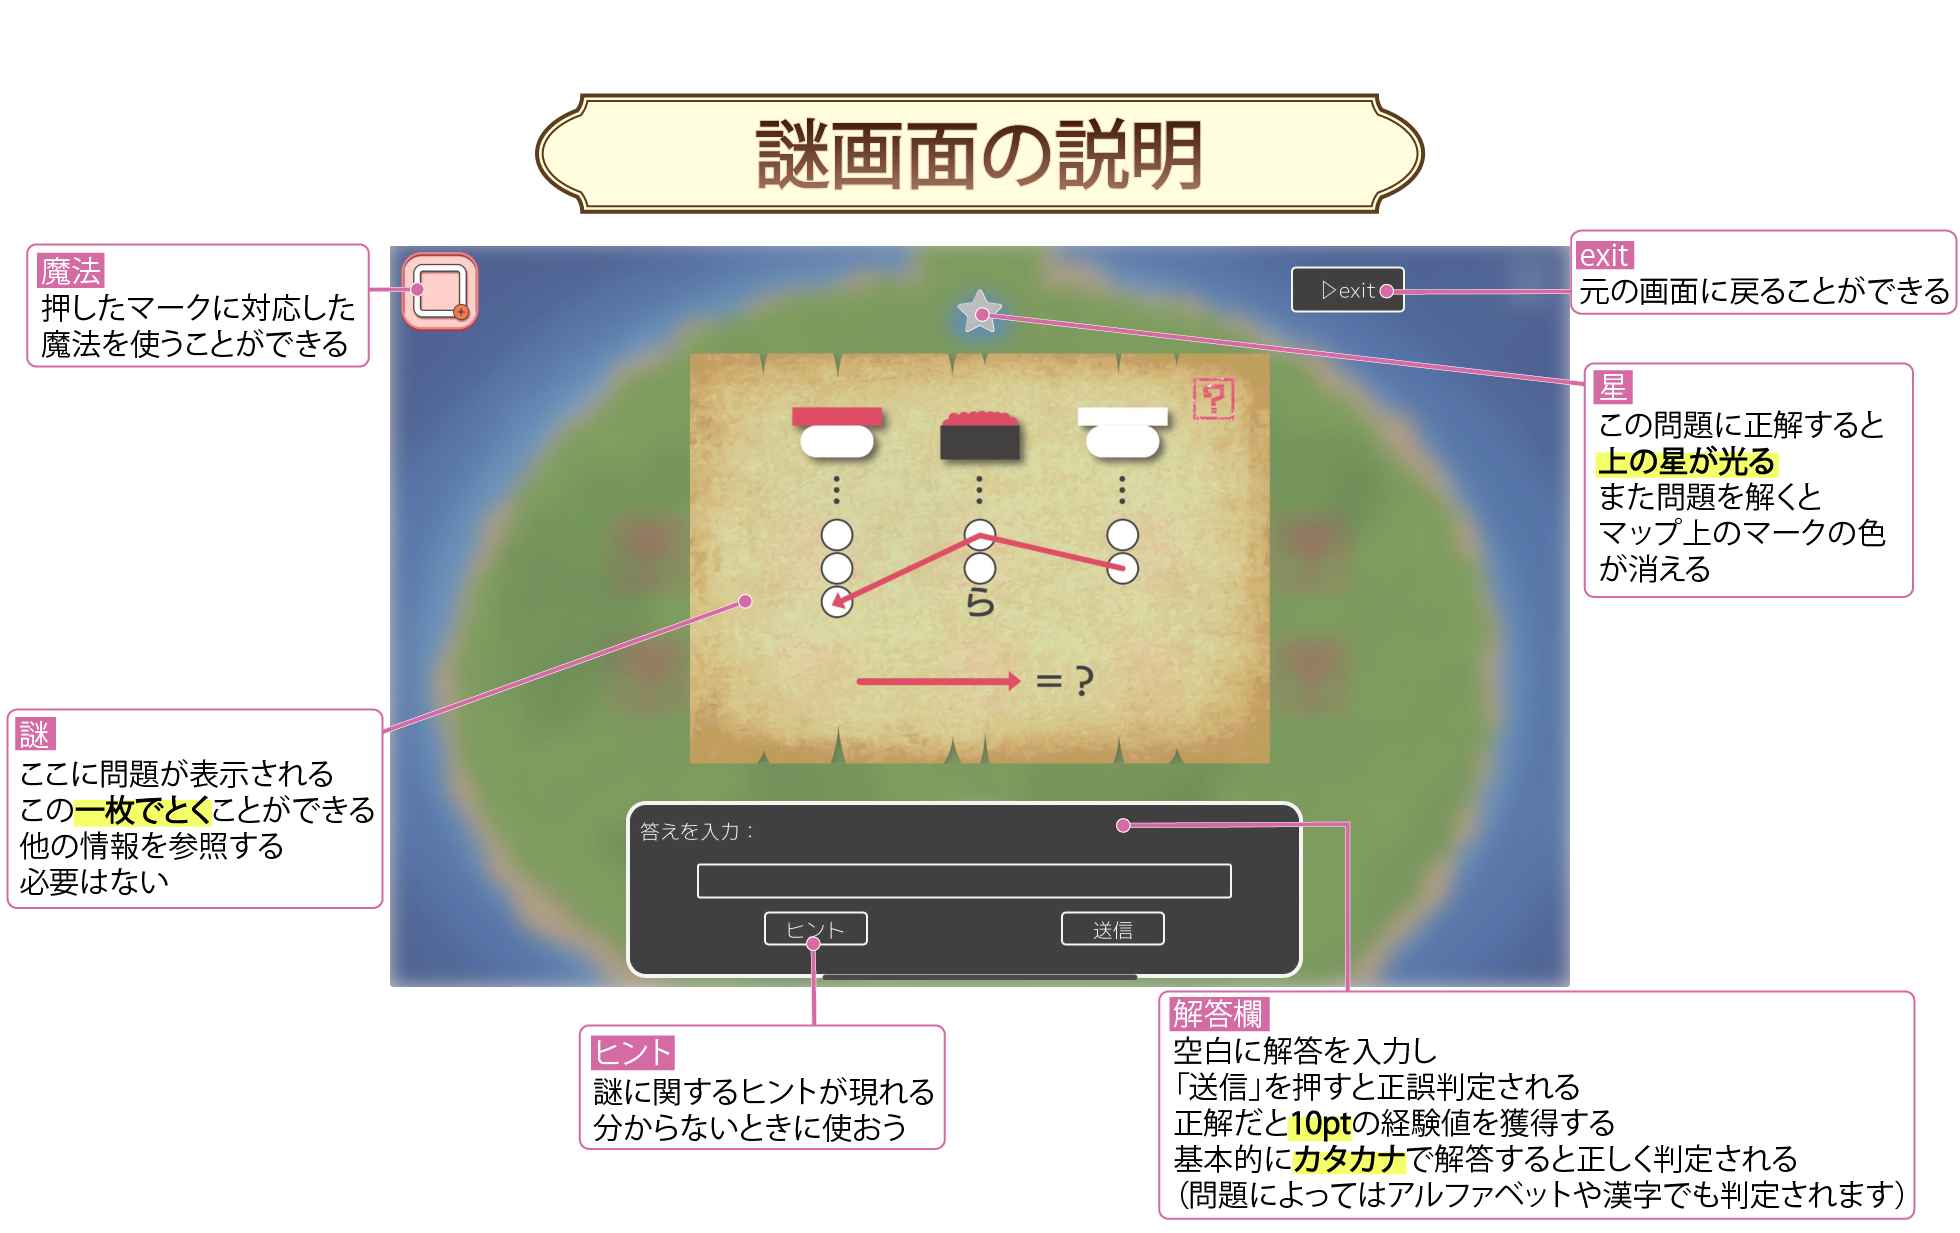
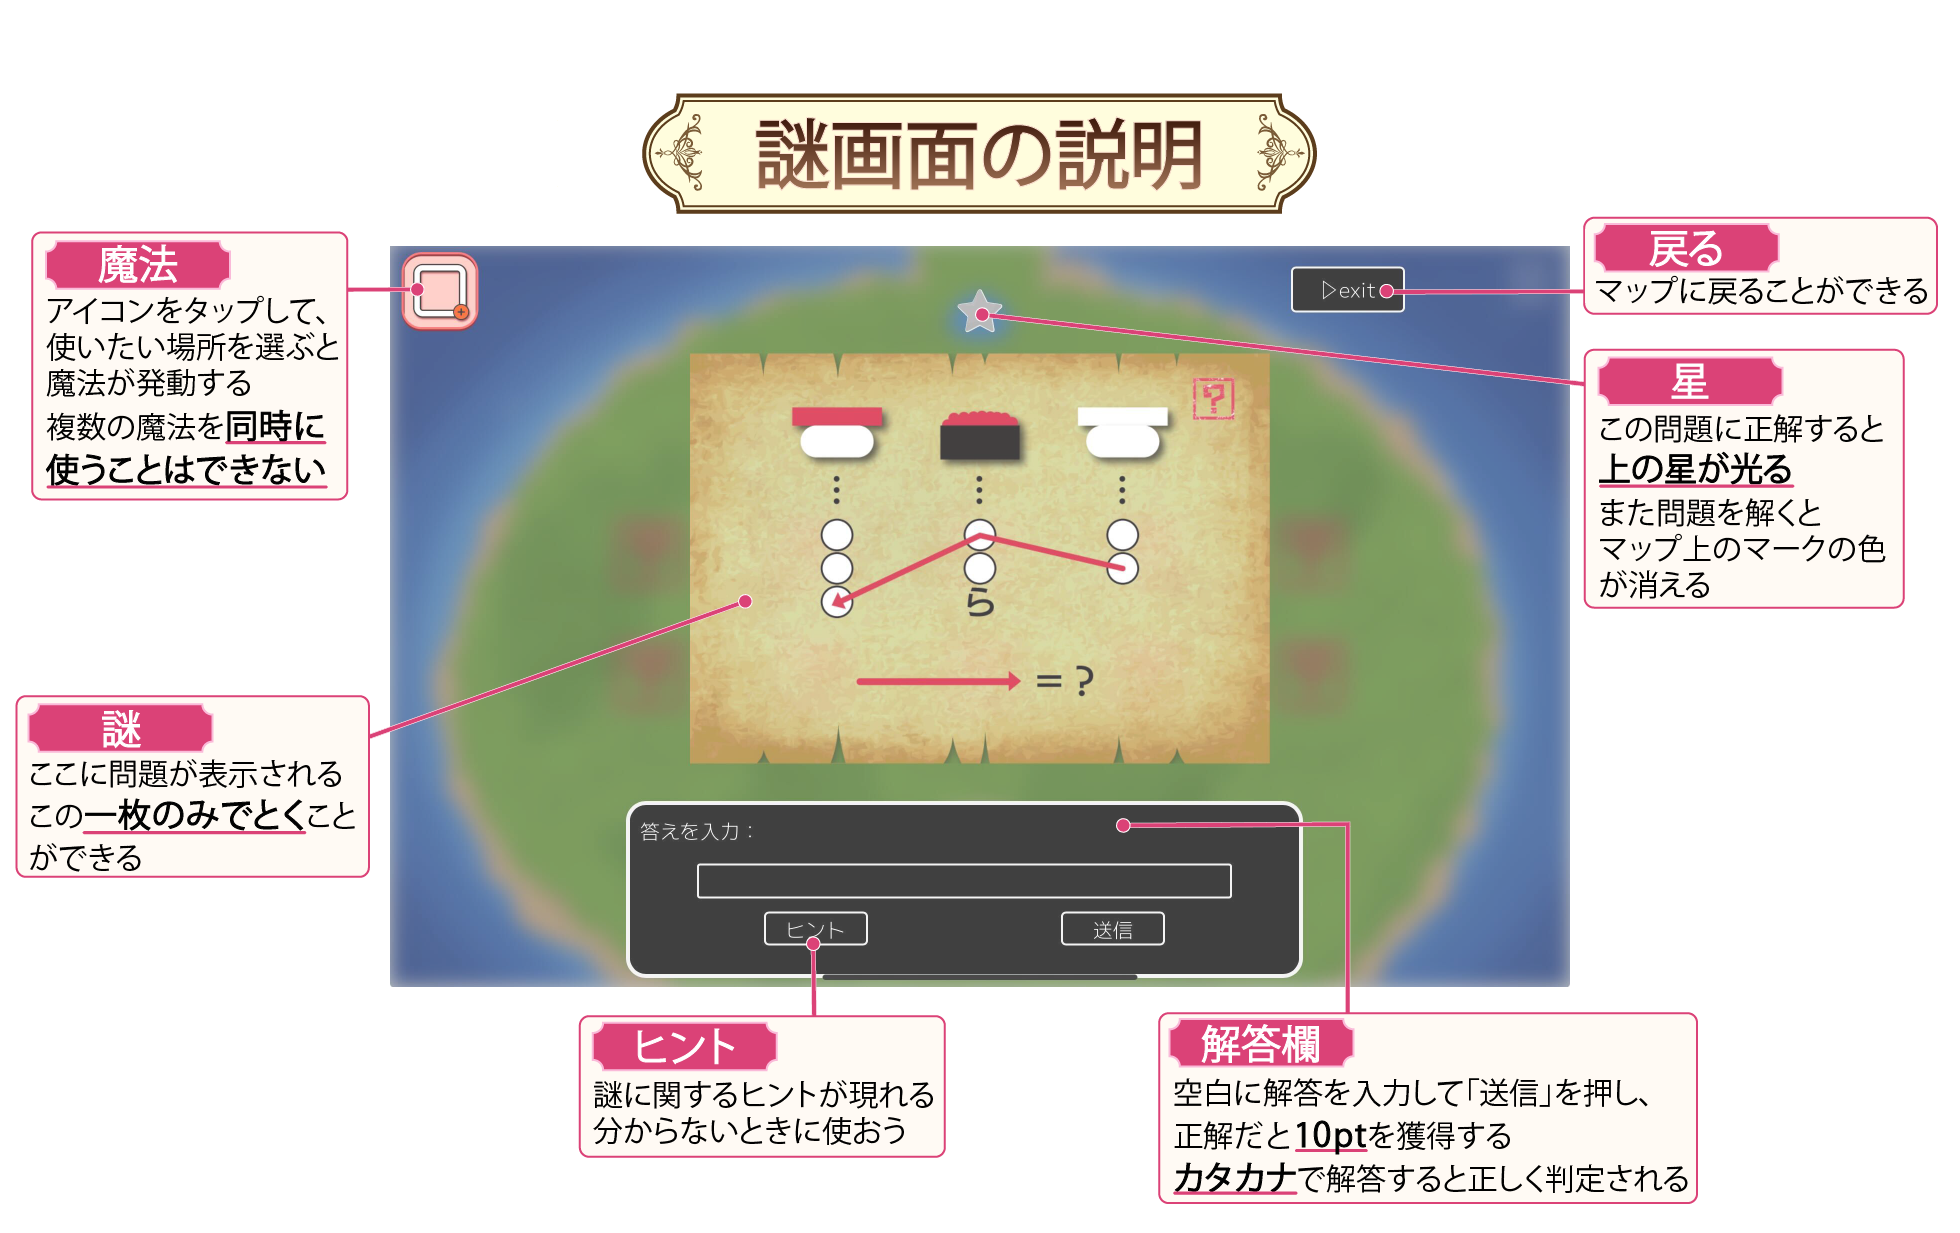
do all tasks

diff --git a/カフェ謎/rpglike.js b/カフェ謎/rpglike.js
@@ -196,10 +196,13 @@ let monster_list = {
 }
 
 
+
+
 const quiz_place_list = {
     prairie:[1,2,3,6,8,12,13,16,17,19],
     castle:[4,5,7,9,10,11,14,15,18,20]
 }
+
 
 
 
@@ -217,7 +220,7 @@ var quiz_list ={
                 hint:["カラーを使ってマグロをタマゴにすることができます。"],
                 answer:"カイゴ",
                 place:{
-                    x: 16, y: 12,  // 座標%
+                    x: 66, y: 14,  // 座標%
                     w: 16, h: 5   // サイズ%
                 }
             }
@@ -296,8 +299,8 @@ var quiz_list ={
                 answer:"ネガイ",
                 hint:"カラーを使うことでおとうとをいもうとにすることができます。",
                 place:{
-                    x: 50, y: 54,  // 座標%
-                    w: 12, h: 10   // サイズ%
+                    x: 29, y: 32,  // 座標%
+                    w: 5, h: 28   // サイズ%
                 }
             },
         }
@@ -470,8 +473,8 @@ var quiz_list ={
                 answer:"クリー",
                 hint:"文字トランスを使うと、1行目は「グリーン」、二行目は「グレー」が埋まります。",
                 place:{
-                    x: 68, y: 77,  // 座標%
-                    w: 10, h: 10   // サイズ%
+                    x: 23, y: 13,  // 座標%
+                    w: 8, h: 5   // サイズ%
                 }
             }
         }
@@ -489,8 +492,8 @@ var quiz_list ={
                 answer:"プライド",
                 hint:"カラーを使って問題の背景を赤くすると1の目が消えます。",
                 place:{
-                    x: 23, y: 33,  // 座標%
-                    w: 53, h: 31   // サイズ%
+                    x: 26, y: 31,  // 座標%
+                    w: 48, h: 35   // サイズ%
                 }
             }
         }
@@ -555,6 +558,10 @@ var quiz_list ={
                 image:"images/quiz/19_方位_字.png",
                 answer:"サイド",
                 hint:"文字トランスを使うと、右には「ウエスト」が埋まるので、そこから時計回りに「ノース」「イースト」「サウス」が埋まります。",
+                place:{
+                    x: 61, y: 35,  // 座標%
+                    w: 5, h: 5   // サイズ%
+                }
             }
         }
         
@@ -571,8 +578,8 @@ var quiz_list ={
                 answer:"アイス",
                 hint:"文字トランスを使うと2行目にあてはまるものがアイチになります。",
                 place:{
-                    x: 77, y: 35,  // 座標%
-                    w: 8, h: 10   // サイズ%
+                    x: 55, y: 33,  // 座標%
+                    w: 10, h: 10   // サイズ%
                 }
             }
         }
@@ -1272,7 +1279,7 @@ function hideImg(subject){
     image.style.display = "none";
 }
 
-function pointOut(subject){
+function pointOut(subject,pointer_name="pointer"){
     target = document.getElementById(subject);
     if (target == null) {
         target = document.querySelector(subject);
@@ -1280,15 +1287,15 @@ function pointOut(subject){
     rect = target.getBoundingClientRect();
     style = window.getComputedStyle(target);
     marginbottom= parseInt(style.getPropertyValue("margin-bottom"), 10);
-    pointer = document.getElementById("pointer");
+    pointer = document.getElementById(pointer_name);
     pointer.style.top = rect.top + rect.height + marginbottom + 5 +  "px";
     pointer.style.left = rect.left + rect.width/2 + "px";
     pointer.style.display = "block";
 }
 
 
-function finishPoint(subject) {
-    pointer = document.getElementById("pointer");
+function finishPoint(subject,pointer_name="pointer") {
+    pointer = document.getElementById(pointer_name);
     pointer.style.display = "none";
 }
 
@@ -1482,15 +1489,16 @@ function removeAllStars() {
 }
 
 
-
 function openQ(n){
     quiz_id = n;
+    console.log(n);
     quiz_data = quiz_list[quiz_id];
     const quiz_back = document.getElementById("QB_back");
     const quiz_sheet = document.getElementById("Q_sheet");
     const quiz_image = quiz_sheet.querySelector(".quiz_image");
     const answer_box = document.getElementById("answer_box");
     const magics = document.getElementById("magics");
+    pointOut(quiz_data.icon_id,pointer = "player_icon");
 
     
     
@@ -1516,7 +1524,7 @@ function openQ(n){
     
     const magichint = document.querySelector(".magicHintButton");
     
-    if(quiz_data.answered_time >= 1){
+    if(quiz_data.answered_time >= 1 && now_num_ans > quiz_data.answered_time){
         magichint.style.display = 'block';
     }else{
         magichint.style.display = 'none';
@@ -1673,22 +1681,29 @@ function hint(n,magictype=null){
     
     if(n == "magic"){
         pop_tl = "魔法のヒント";
+        count = 0;
         
         
     //魔法のヒント、クリック時
         if(magictype == null){
-            s = "この謎にかける魔法は<br>";
+            s = "この謎に今かけられる魔法は<br>";
             for(var magic of enable_magic_list){
                 if(quiz_data.magics[magic] != null){
                     if(quiz_data.magics[magic].hint != null){
-                        s += magic_info[magic].name + "<br>";
-                        var magicAnswer = document.getElementById(magic + "_hint");
-                        if(isColorMagic(magic)){
-                            var magicAnswer = document.getElementById(magicType.CHANGE_COLOR + "_hint");
+                        if(enable_magic_list.includes(magic)){
+                            s += magic_info[magic].name + "<br>";
+                            count += 1;
+                            var magicAnswer = document.getElementById(magic + "_hint");
+                            if(isColorMagic(magic)){
+                                var magicAnswer = document.getElementById(magicType.CHANGE_COLOR + "_hint");
+                            }
+                            magicAnswer.style.display = 'block';
                         }
-                        magicAnswer.style.display = 'block';
                     }
                 }
+            }
+            if(count == 0){
+                s = "この謎に今かけられる魔法はありません";
             }
         }
         
@@ -2066,6 +2081,7 @@ function useMagic(e){
     const hit =
           (square.x <= point.x && point.x <= square.x + square.w)  // 横方向の判定
        && (square.y <= point.y && point.y <= square.y + square.h);  // 縦方向の判定
+    console.log(point);
 
     
     if (hit) {
@@ -2389,6 +2405,7 @@ function openExplains(){
     const menu_explain_box = document.getElementById("menu_explain_box");
     if(menu_explain_box.style.display=="block"){
         menu_explain_box.style.display="none";
+        
     }else{
         menu_explain_box.style.display="block";
     }
@@ -2405,17 +2422,27 @@ function closeExplains(){
 
 
 function openExplainSheet(n){
+    const back = document.getElementById("QB_back");
     explain_img = document.getElementById("explain_image");
     explain_img.src = "images/explains/" + n + ".png";
     explain_sheet = document.getElementById("explain_sheet");
     explain_sheet.style.display = "block";
+    now_status = status.BOOK;
+    back.style.display = 'block';
+    const map = document.getElementById("map");
+    map.style.filter = "blur(10px)";
 }
 
 
 
 function closeExplainSheet(){
+    const back = document.getElementById("QB_back");
     explain_sheet = document.getElementById("explain_sheet");
     explain_sheet.style.display = "none";
+    now_status = status.MAP;
+    back.style.display = 'none';
+    const map = document.getElementById("map");
+    map.style.filter = "none";
 }
 
 
@@ -2437,6 +2464,12 @@ function moveMap(n){
     if(n=='rocky' && tutorial_finish[tutorialType.USEMAGICTOQUIZ].finish == false){
         doTutorial(tutorialType.USEMAGICTOQUIZ);
     }
+    
+    pointer = document.getElementById("player_icon");
+    pointer.style.top = "70%";
+    pointer.style.left = "50%";
+    
+    
     
 }
 

diff --git a/カフェ謎/rpglike.html b/カフェ謎/rpglike.html
@@ -62,6 +62,7 @@
                 <span></span>
                 
             </div>
+            <img id="player_icon" src = "images/icons/プレイヤーアイコン.png">
             <ul class="slide_menu">
                 <li id="menu_level">Lv.主人公</li>
                 <!--</1><li id="next_levet_made">次のレベルまで</li>-->
@@ -71,7 +72,7 @@
                 </li>
                 <li id="menu_explain" onclick="openExplains()">説明</li>
                 <span id="menu_explain_box" style="display: none">
-                    <li id="menu_story_explain" class="menu_explains" onclick="openExplainSheet('')">　ストーリー設定</li>
+                    <li id="menu_story_explain" class="menu_explains" onclick="openExplainSheet('世界観の説明')">　ストーリー設定</li>
                     <li id="menu_quiz_explain" class="menu_explains" onclick="openExplainSheet('謎画面の説明')">　謎画面について</li>
                     <li id="menu_battle_explain" class="menu_explains" onclick="openExplainSheet('戦闘画面の説明')">　戦闘画面について</li>
                 </span>
@@ -124,9 +125,11 @@
             <div class="text_log" id="q_text_log">
                 <p class="text_log_sentence">答えを入力：</p>
                 <input type="text" id="answer_box">
-                <p onclick="hint(0)" class="hintButton">ヒント</p>
-                <p onclick="hint('magic')" class="magicHintButton">魔法のヒント</p>
-                <p onclick="checkA()" class="checkButton">送信</p>
+                <div id = "send_and_hint_buttons">
+                    <p onclick="hint(0)" class="hintButton">ヒント</p>
+                    <p onclick="hint('magic')" class="magicHintButton">魔法のヒント</p>
+                    <p onclick="checkA()" class="checkButton">送信</p>
+                </div>
             </div>
             <p onclick="closeQ()" class="closeButton">▷戻る</p>
         </div>

diff --git a/カフェ謎/rpglike.css b/カフェ謎/rpglike.css
@@ -486,6 +486,28 @@ h1 {
 }
 
 
+
+
+#send_and_hint_buttons{
+    display: flex;
+    flex-wrap: wrap;
+    justify-content: space-between;
+    grid-row-gap: 50px;
+    width:80%;
+    position: absolute;
+    bottom: 10%;
+    left: 10%;
+    text-align: center;
+}
+
+.checkButton, .hintButton, .magicHintButton{
+    width:fit-content;
+    padding: 0 10px;
+    margin: 0;
+}
+
+
+/*
 .checkButton{
     position: absolute;
     width:20%;
@@ -519,6 +541,7 @@ h1 {
     padding: 0 5px;
     -webkit- transform: translateX(-50%);
 }
+*/
 
 
 .closeButton{
@@ -854,6 +877,18 @@ h1 {
 }
 
 
+
+#player_icon {
+    position: absolute;
+    width:10%;
+    max-width: 50px;
+    height: auto;
+    top: 70%;
+    left: 50%;
+    transform: translateX(-50%);
+    -webkit- transform: translateX(-50%);
+    z-index: 10;
+}
 
 
 
